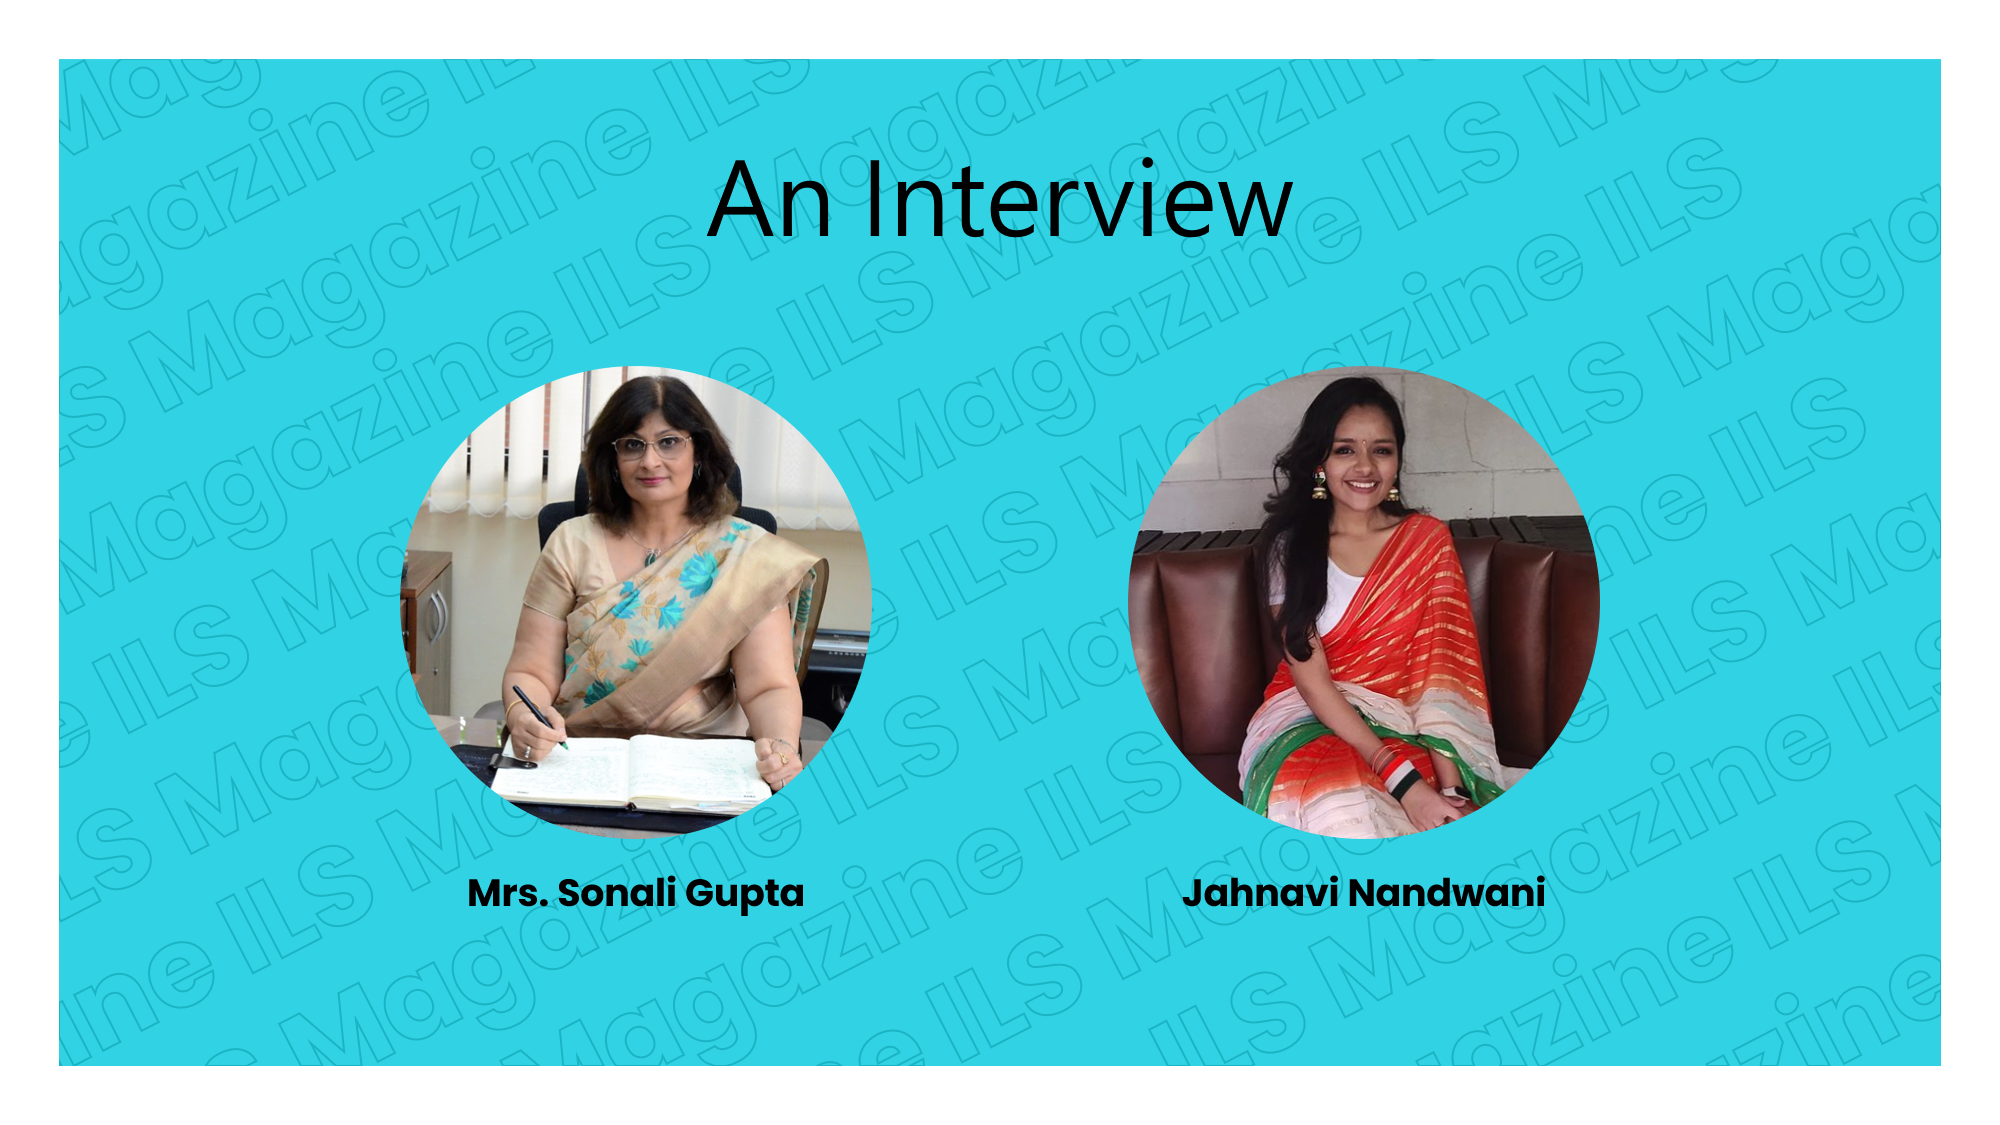
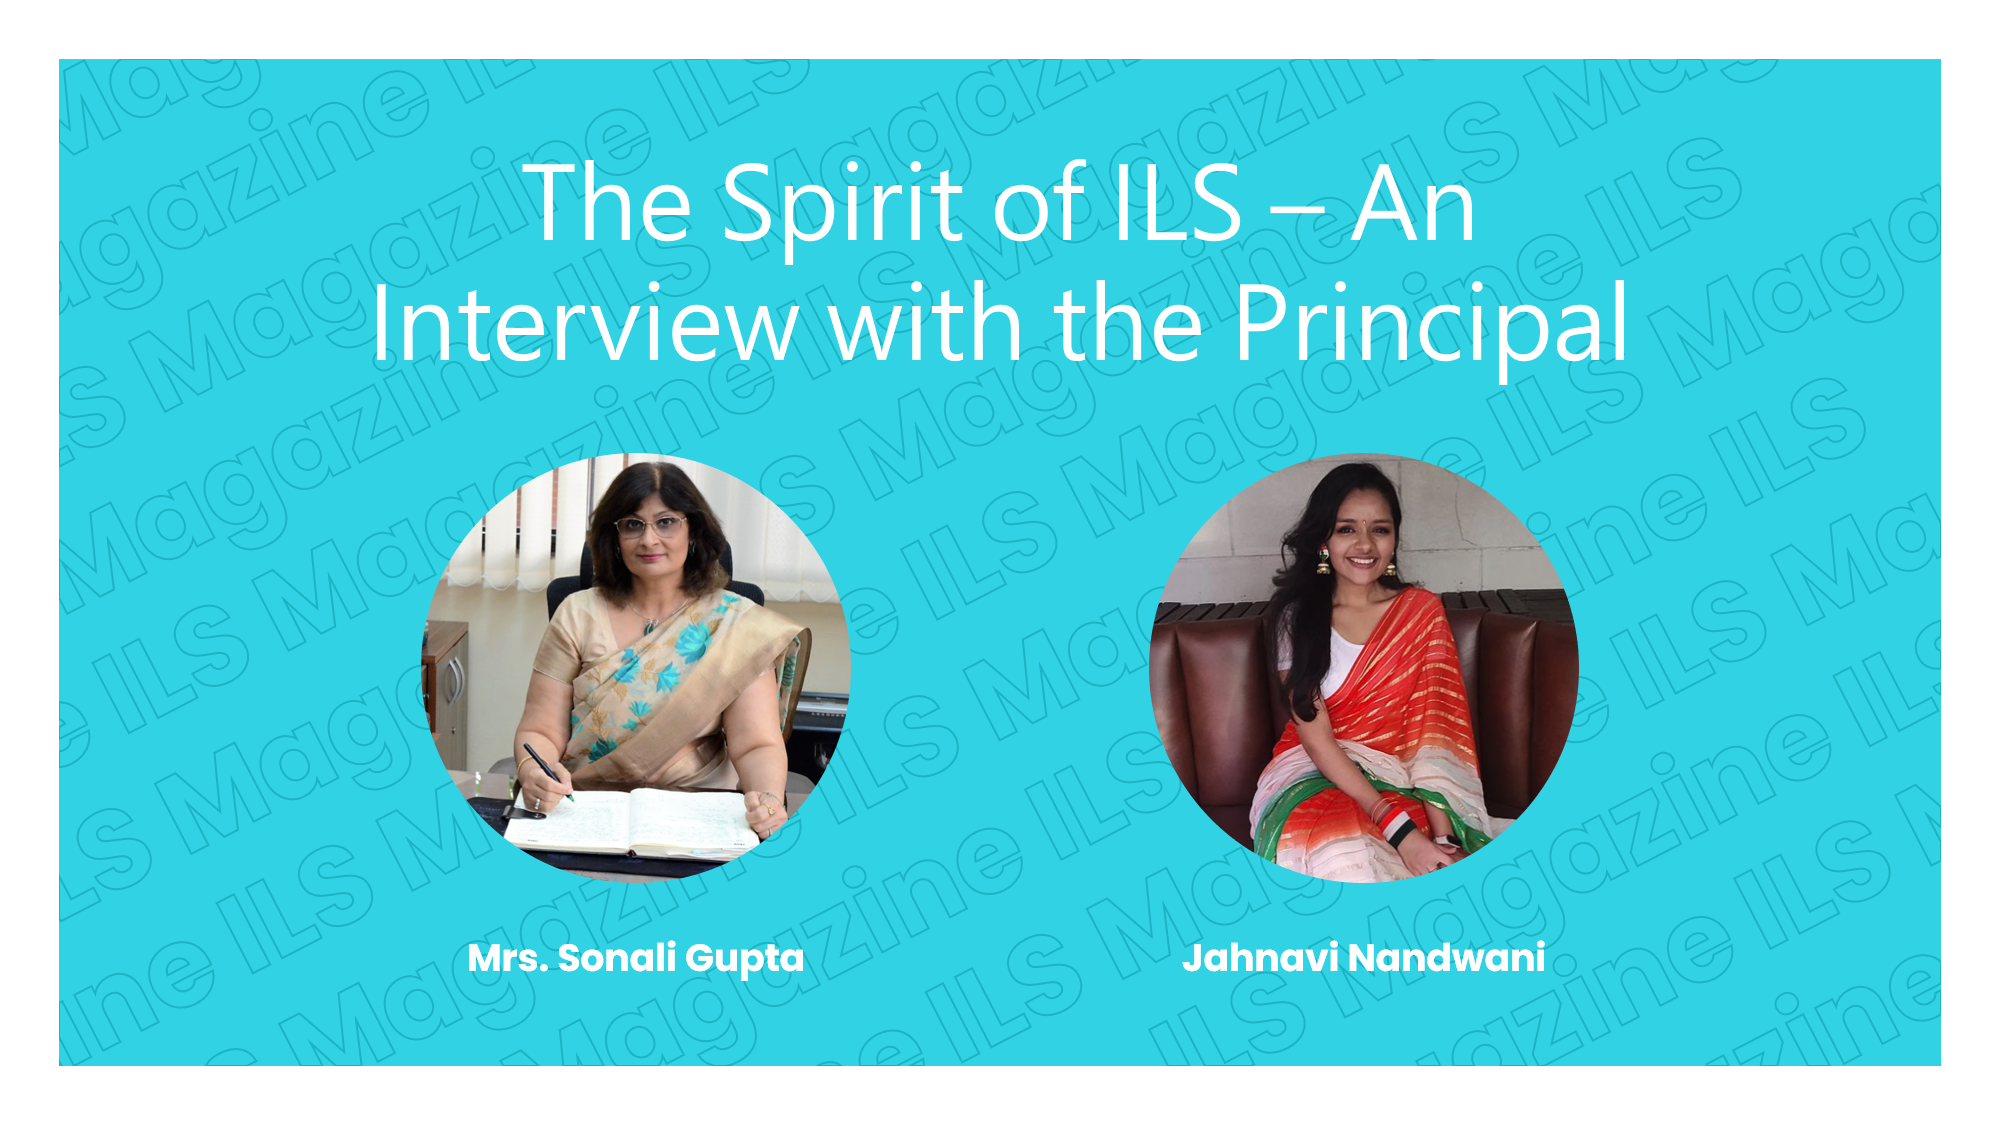
Idek apt

diff --git a/index.html b/index.html
@@ -12,7 +12,8 @@
     <script src="index.js" defer></script>
     <script src="./script.js" defer></script>
     <!-- COUNTING VIEWS ON THE WEBISTE -->
-    <script async src="https://api.countapi.xyz/hit/ils-magazine.github.io/9393c4ad-3258-497e-8f92-9ebb62603f1d?callback=websiteVisits"></script>
+    <script async
+        src="https://api.countapi.xyz/hit/ils-magazine.github.io/9393c4ad-3258-497e-8f92-9ebb62603f1d?callback=websiteVisits"></script>
 </head>
 
 <body>
@@ -47,15 +48,23 @@
     <section class="pagesWarpper">
         <h2 class="pagesTitle">Pages</h2>
         <div class="pages">
-            <button class="page-button only-page-button" onclick="location.href='./Editorial/editorial.html'">Editorial</button>
-            <button class="page-button only-page-button" onclick="location.href='./HonourRoll/honourRoll.html'">Honour Roll</button>
-            <button class="page-button only-page-button" onclick="location.href='./Laurels/laurels.html'">Laurels</button>
+            <button class="page-button only-page-button"
+                onclick="location.href='./Editorial/editorial.html'">Editorial</button>
+            <button class="page-button only-page-button" onclick="location.href='./HonourRoll/honourRoll.html'">Honour
+                Roll</button>
+            <button class="page-button only-page-button"
+                onclick="location.href='./Laurels/laurels.html'">Laurels</button>
             <button class="page-button only-page-button" onclick="location.href='./Staff/staff.html'">ILS Staff</button>
-            <button class="page-button only-page-button" onclick="location.href='./StudentCouncil/studentCouncil.html'">Student Council</button>
-            <button class="page-button only-page-button" onclick="location.href='./Committees/committees.html'">Committees</button>
-            <button class="page-button only-page-button" onclick="location.href='./Articles/articles.html'">Articles</button>
-            <button class="page-button only-page-button" onclick="location.href='./Gallery/gallery.html'">Gallery</button>
-            <button class="page-button only-page-button" onclick="location.href='./Timeline/timeline.html'">Timeline</button>
+            <button class="page-button only-page-button"
+                onclick="location.href='./StudentCouncil/studentCouncil.html'">Student Council</button>
+            <button class="page-button only-page-button"
+                onclick="location.href='./Committees/committees.html'">Committees</button>
+            <button class="page-button only-page-button"
+                onclick="location.href='./Articles/articles.html'">Articles</button>
+            <button class="page-button only-page-button"
+                onclick="location.href='./Gallery/gallery.html'">Gallery</button>
+            <button class="page-button only-page-button"
+                onclick="location.href='./Timeline/timeline.html'">Timeline</button>
         </div>
     </section>
     <section class="high-commisioners-messageWrapper">
@@ -125,6 +134,45 @@
                 <h4 class="desc">Mrs. Sonali Gupta</h4>
                 <p>(Principal & Secretary Board of Trustees)</p>
             </div>
+        </div>
+    </section>
+    <section class="seniorLeadersWrapper">
+        <img src="./Images/HomePage/Senior Leaders.png" alt="Senior Leaders" class="seniorLeadersImage">
+        <div class="seniorLeadersText">
+            <h2>Senior Leaders</h2><br>
+            <ol class="seniorLeadersList">
+                <li>Mrs Sonali Gupta - Principal</li>
+                <li>Dr. Mrs Manisha Jain - Vice Principal-1</li>
+                <li>Mrs Ishita Yadav - Vice Principal-2</li>
+                <li>Mrs Bindu Mathew - Head of Exam Department and Co-ordinator</li>
+                <li>Mrs Rashmi Lakhanpal - Head of Curriculum Development and Senior Co-ordinator</li>
+                <li>Mrs Geetanjali Bajaj - Co-ordinator</li>
+                <li>Mrs Gursharan Shergill - Supervisor</li>
+                <li>Mrs Nisha Ramchandani - Supervisor</li>
+            </ol>
+        </div>
+    </section>
+    <section class="interviewWrapper seniorLeadersWrapper">
+        <iframe src="https://www.youtube.com/embed/8eurNBX_UcI" width="560" height="315"
+            title="The Spirit of Indian Language School - An Interview with the Principal" frameborder="0"
+            allow="accelerometer; autoplay; clipboard-write; encrypted-media; gyroscope; picture-in-picture"
+            allowfullscreen class="interviewVideo"></iframe>
+        <div class="seniorLeadersText">
+            <h2>The Spirit of ILS - An Interview with the Principal</h2><br>
+            <p>Watch this insightful interview of Jahnavi Nandwani with Mrs. Sonali Gupta the principal of ILS to get to
+                know a bit more about the school. Our questions:<br><br>
+            <ol>
+                <li>2021 was a big year for ILS. The school finally reopened physically. What was that process like?
+                </li>
+                <li>What was the student response like?</li>
+                <li>What did ILS do to minimize the stress faced by students?</li>
+                <li>Indian Language School successfully conducted the grade 10 and 12 board exams under covid
+                    precautions. How did the teachers and staff manage such a mammoth task?</li>
+                <li>Do you have any messages to the outgoing students i.e. the batch of 2022?</li>
+                <li> Looking to the future, what has ILS planned to make the year 2022-23 even better than the last?
+                </li>
+            </ol>
+            </p>
         </div>
     </section>
     <section class="headsMessageWrapper">

diff --git a/index.css b/index.css
@@ -3,10 +3,10 @@ body {
     color: var(--light);
 }
 
-.cursor{
+.cursor {
     border: 1px solid var(--white);
     z-index: 100000;
-    mix-blend-mode: overlay;
+    mix-blend-mode: color-dodge;
     transform: scale(200%);
     -webkit-transform: scale(200%);
     -moz-transform: scale(200%);
@@ -134,7 +134,7 @@ h1.heading {
     margin-bottom: 30px;
 }
 
-.magazineCoverImageOverlay{
+.magazineCoverImageOverlay {
     display: none;
 }
 
@@ -244,7 +244,7 @@ h1.heading {
     font-weight: lighter;
 }
 
-.footerWrapper{
+.footerWrapper {
     background-color: #000;
     padding-top: 20px;
     padding-bottom: 20px;
@@ -255,7 +255,7 @@ h1.heading {
 
 }
 
-.createdBy{
+.createdBy {
     text-decoration: none;
     background-color: var(--accent3);
     color: #000;
@@ -268,13 +268,54 @@ h1.heading {
     margin-left: 10px;
 }
 
-.createdBy:hover{
+.createdBy:hover {
     background-color: var(--accent2);
 
 }
 
-.headMessageHeading{
+.headMessageHeading {
     margin-top: 20px;
+}
+
+
+.seniorLeadersImage {
+    width: 100%;
+    max-width: 500px;
+    border-radius: 10px;
+    -webkit-border-radius: 10px;
+    -moz-border-radius: 10px;
+    -ms-border-radius: 10px;
+    -o-border-radius: 10px;
+}
+
+.seniorLeadersText>h2 {
+    text-align: left;
+}
+
+.seniorLeadersWrapper {
+    display: flex;
+    gap: 30px;
+    justify-content: left;
+    align-items: center;
+    flex-direction: column;
+}
+
+.interviewWrapper {
+    background-color: #31D2E3;
+    color: white;
+}
+
+.interviewVideo {
+    aspect-ratio: 16/9;
+    border-radius: 10px;
+    -webkit-border-radius: 10px;
+    -moz-border-radius: 10px;
+    -ms-border-radius: 10px;
+    -o-border-radius: 10px;
+}
+
+.interviewVideo{
+    width: 100%;
 }
 
 @media (min-width: 800px) {
@@ -367,11 +408,26 @@ h1.heading {
         grid-template-columns: 1fr 1fr;
         grid-gap: 50px;
     }
-    .footerWrapper{
+
+    .footerWrapper {
         background-color: #000;
         padding-top: 20px;
         padding-bottom: 20px;
-    flex-direction: row;
-    justify-content: space-between;
+        flex-direction: row;
+        justify-content: space-between;
     }
+
+    .seniorLeadersWrapper {
+        flex-direction: row;
+        gap: 60px;
+    }
+
+    .interviewWrapper {
+        flex-direction: row-reverse;
+    }
+
+    .interviewVideo{
+        width: auto;
+    }
+
 }
